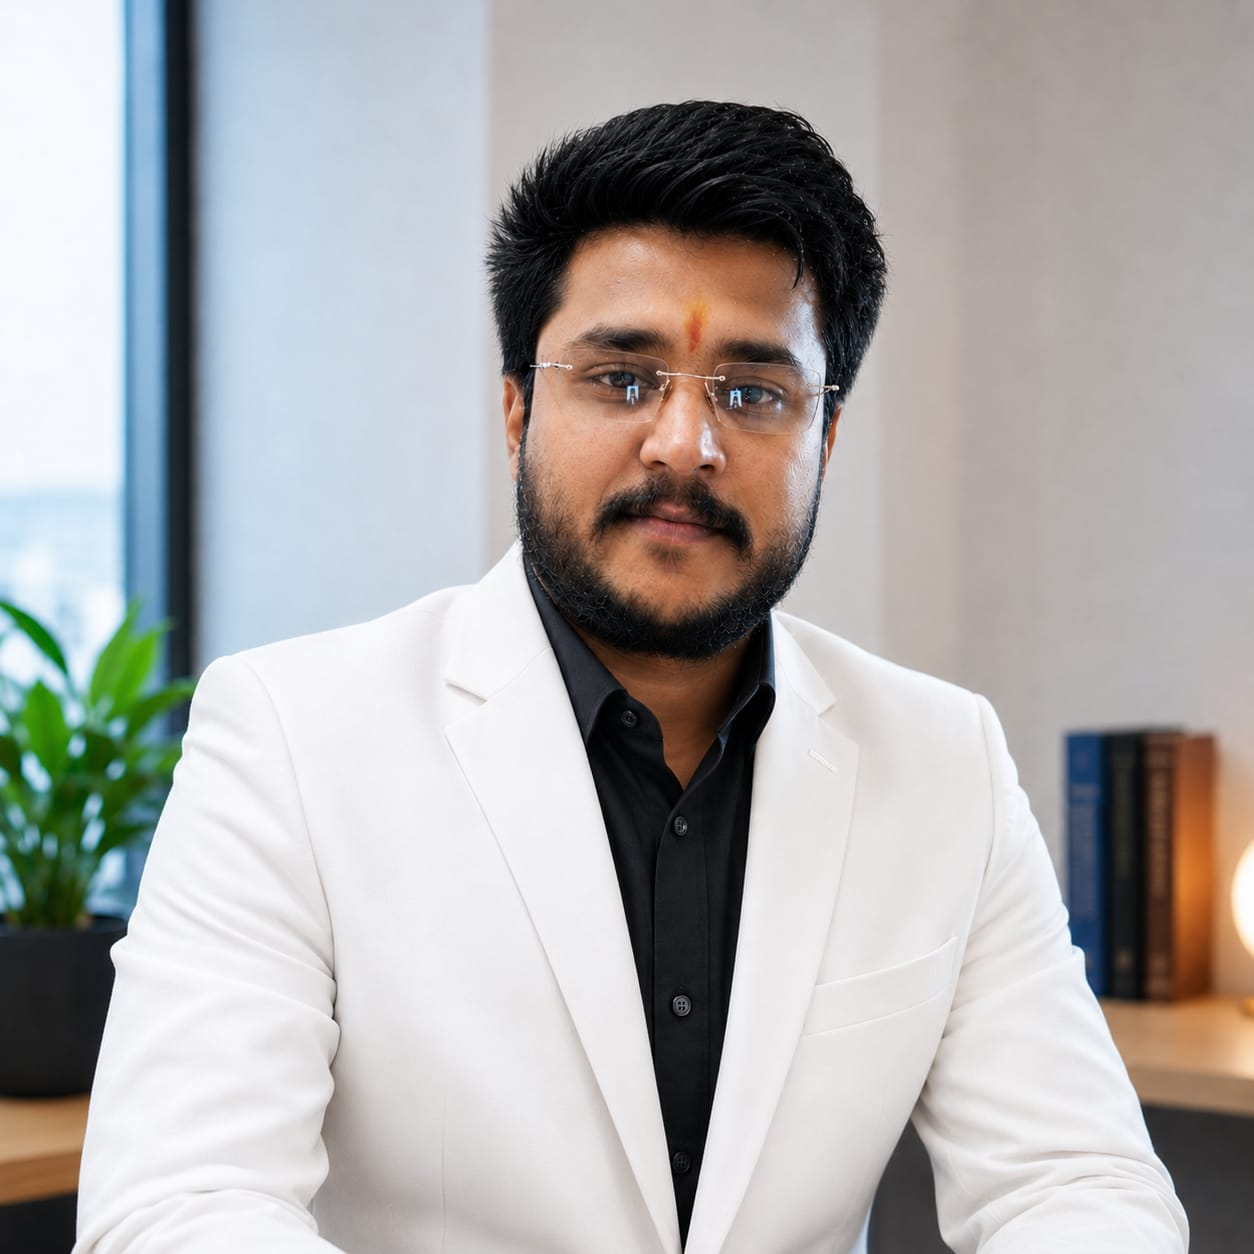
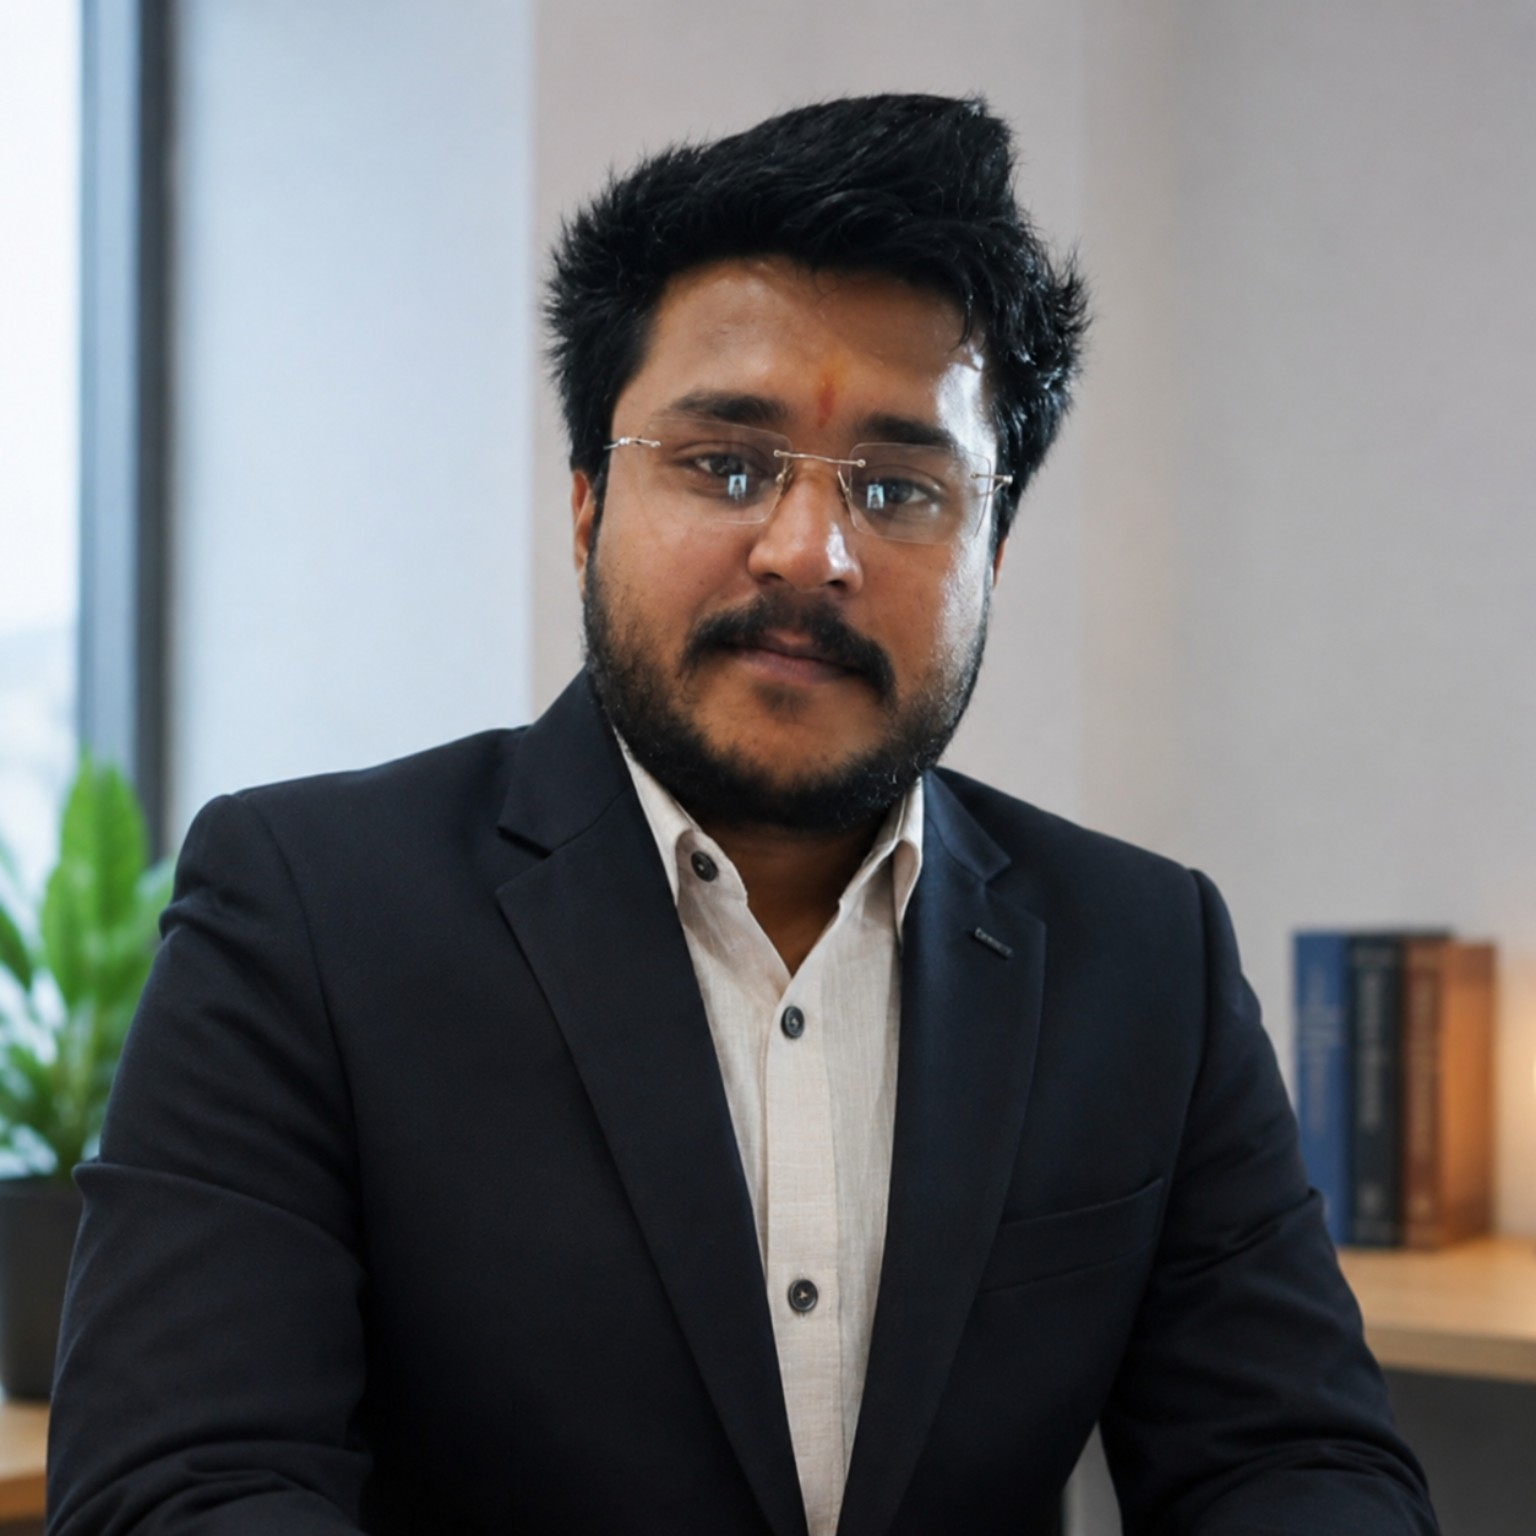
Add Divyansh as Investment consultant

diff --git a/index.html b/index.html
@@ -1004,6 +1004,27 @@
           <div class="team-block swiper-slide">
             <div class="inner-block">
               <div class="images-box">
+                <div class="image"><img src="images/resource/divyansh.jpeg" alt=""></div>
+                <svg class="shape" width="304" height="543" viewBox="0 0 304 543" fill="none" xmlns="http://www.w3.org/2000/svg">
+                  <path d="M304 0H103.746L0 288.319H86.8571L14.4762 543L265.397 192.212H176.127L304 0Z"></path>
+                </svg>
+                <ul class="social-link">
+                  <li><a href="#"><i class="fa-brands fa-facebook"></i></a></li>
+                  <li><a href="#"><i class="fa-brands fa-twitter"></i></a></li>
+                  <li><a href="#"><i class="fa-brands fa-instagram"></i></a></li>
+                </ul>
+              </div>
+              <div class="author-info">
+                <div class="inner-box">
+                   <div class="h4 name"><a href="page-team-details.html">Divyansh</a></div>
+                  <div class="designation">Investment consultant</div>
+                </div>
+              </div>
+            </div>
+          </div>
+          <div class="team-block swiper-slide">
+            <div class="inner-block">
+              <div class="images-box">
                 <div class="image"><img src="images/resource/rahul.jpeg" alt=""></div>
                 <svg class="shape" width="304" height="543" viewBox="0 0 304 543" fill="none" xmlns="http://www.w3.org/2000/svg">
                   <path d="M304 0H103.746L0 288.319H86.8571L14.4762 543L265.397 192.212H176.127L304 0Z"></path>